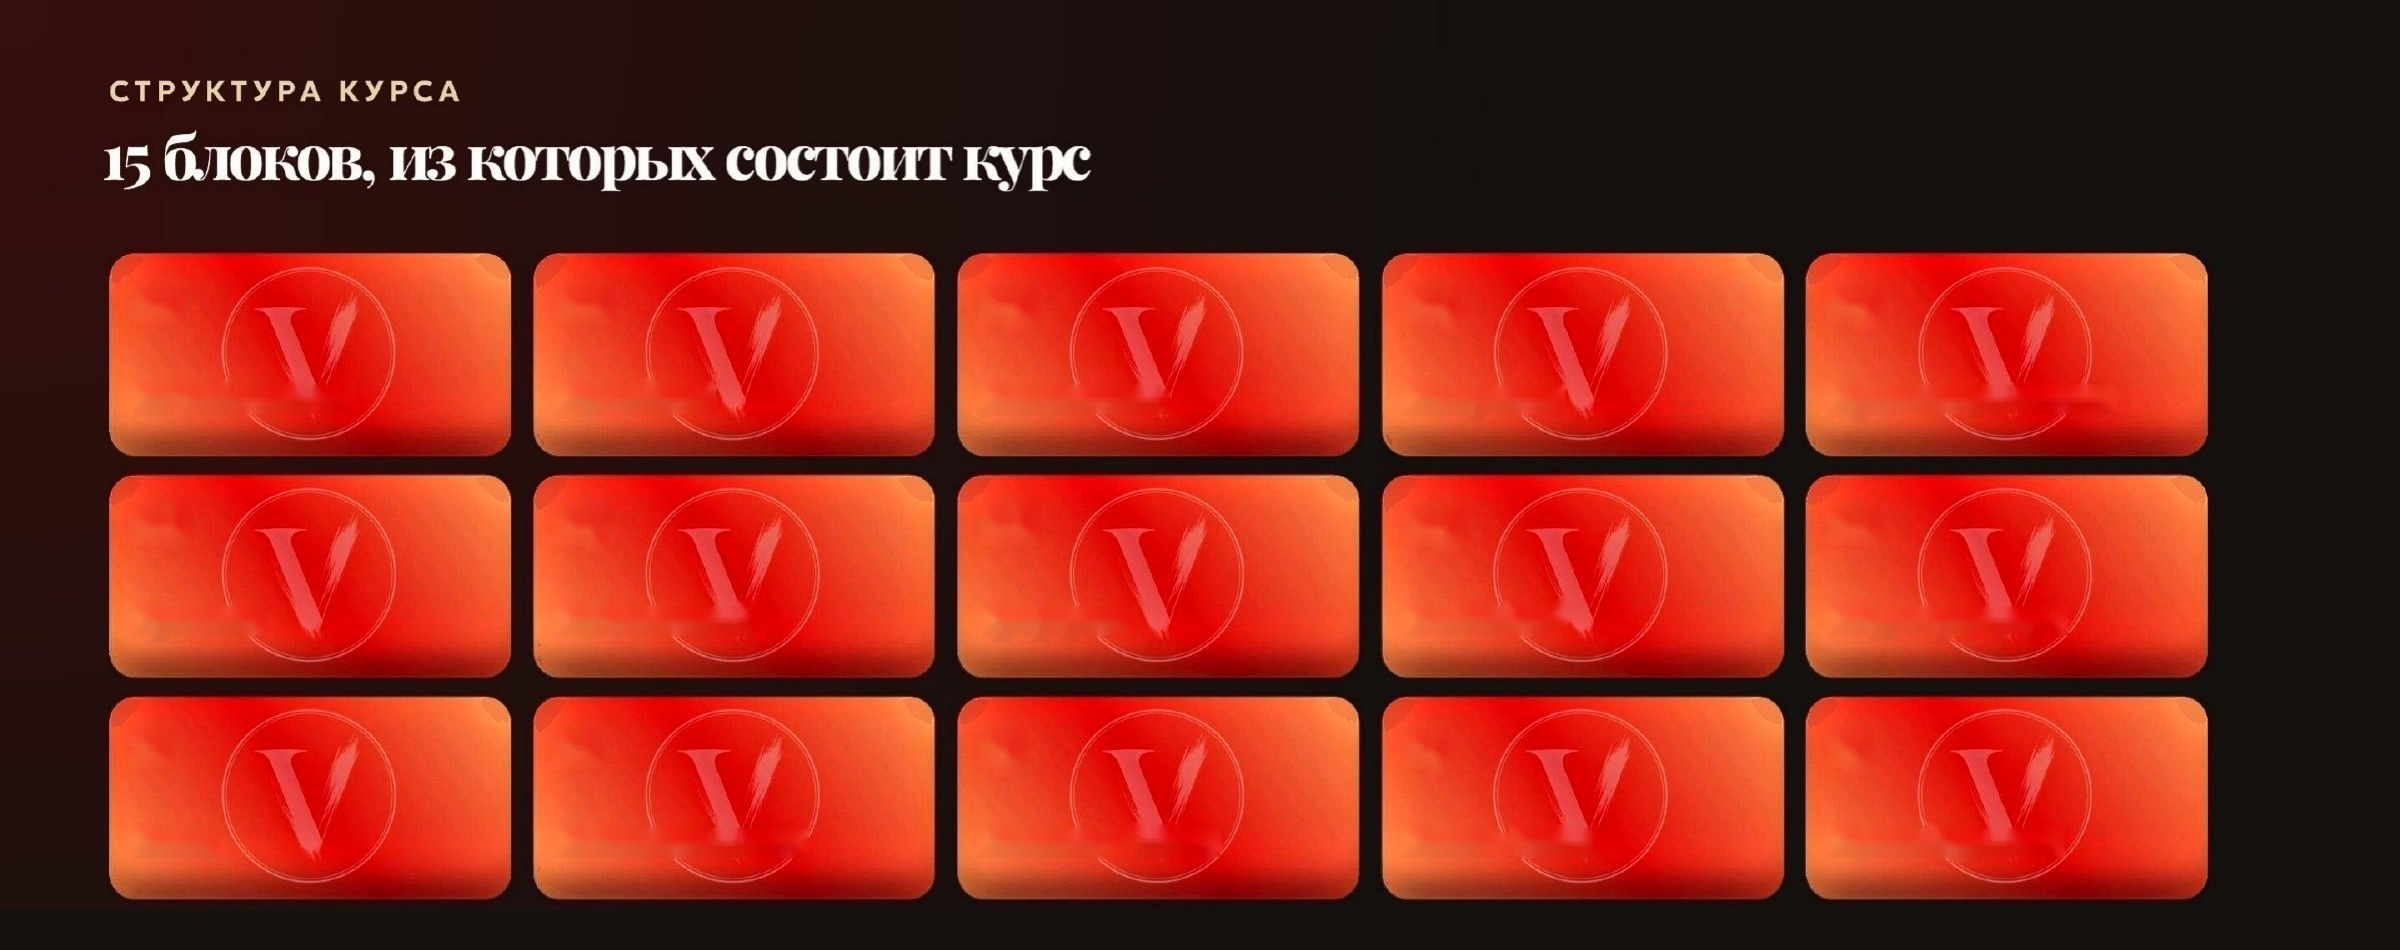
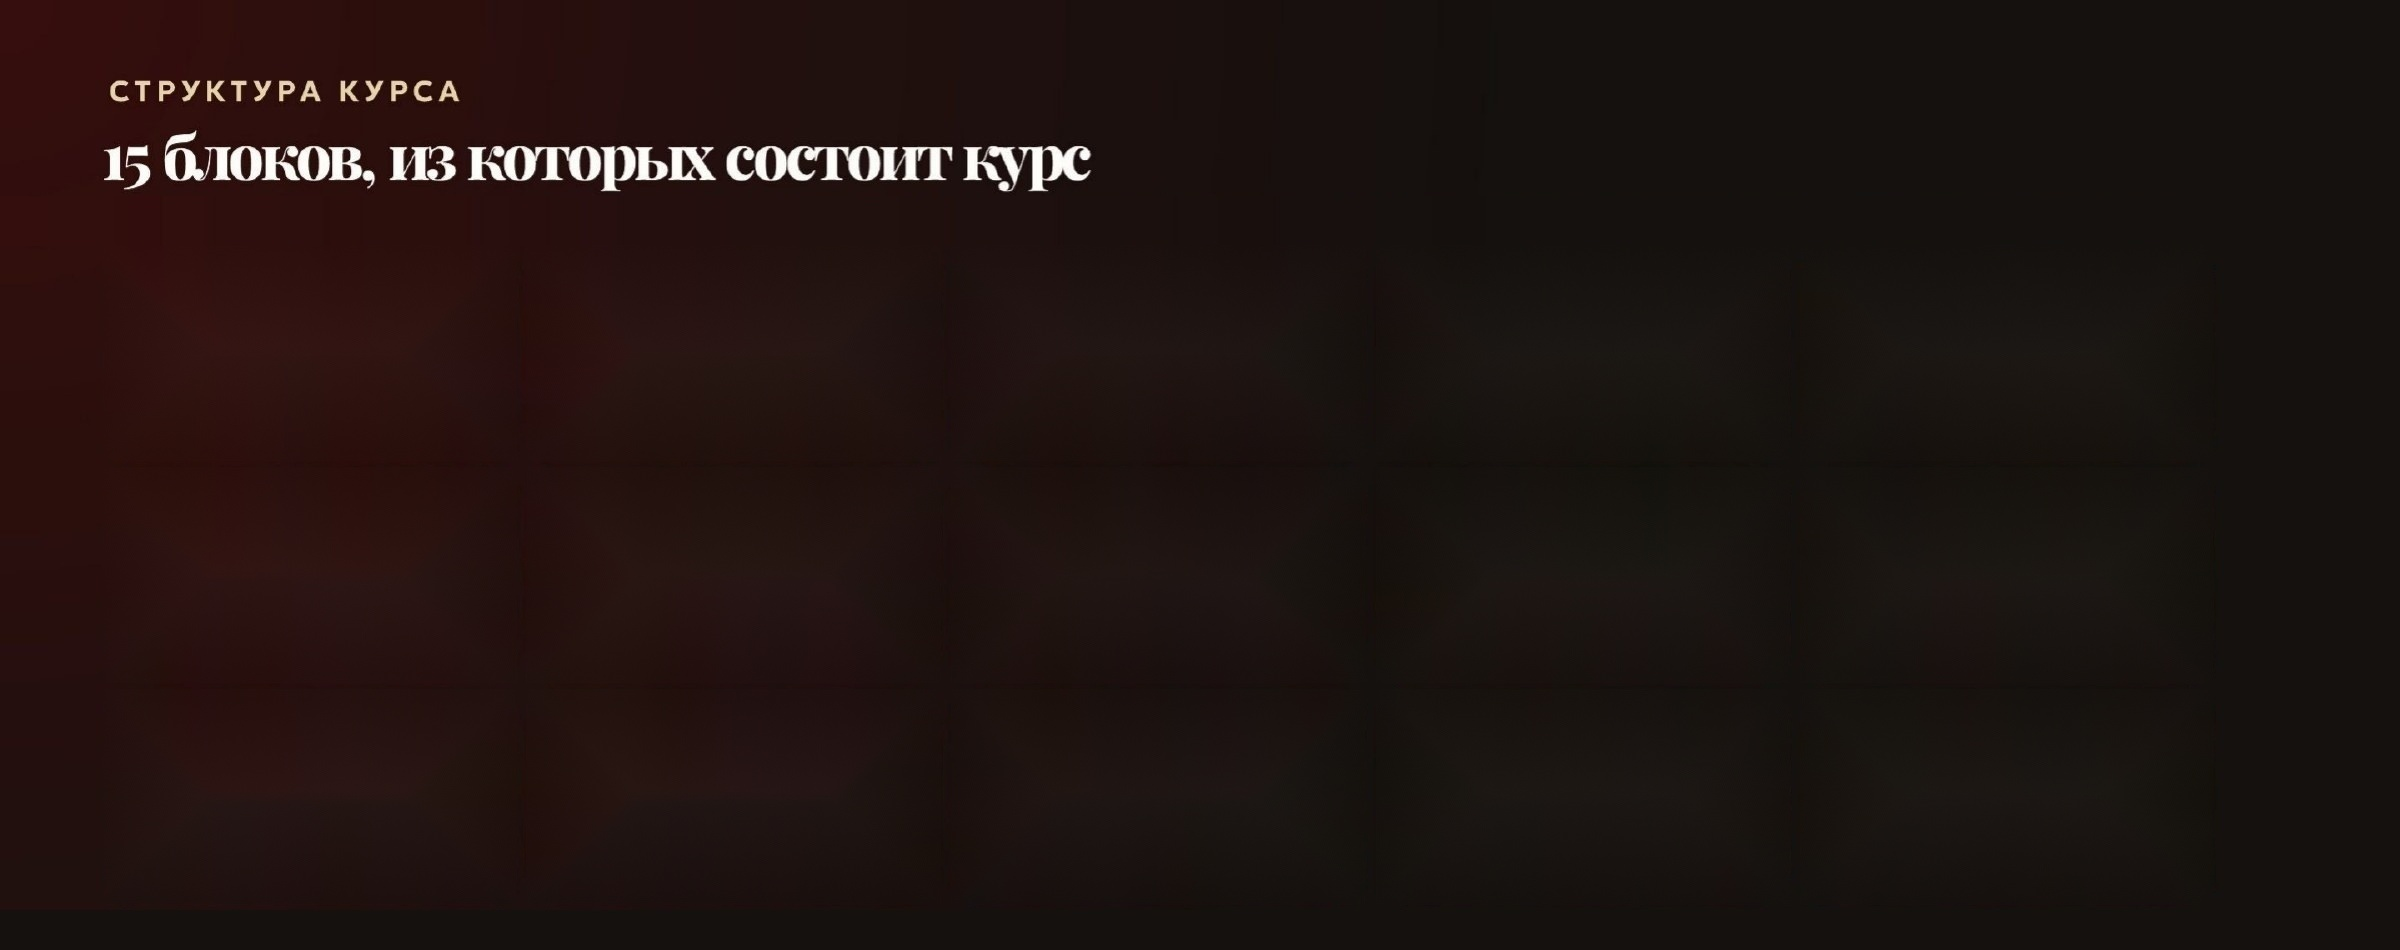
Rebuild slide 2's 15 cards as real CSS elements, not baked pixels
Per the user's explicit choice: instead of a shine overlay glued on
top of a baked image, the cards are now genuine styled divs
(gradient, box-shadow, ring + "V" watermark reconstructed in CSS)
with the shine sweep as their own ::after -- truly part of each
block's own code, matching how the CTA button's shine works. Erased
the old flat card pixels from slide-02.jpg via inpainting so the
background gradient behind the new CSS cards stays seamless.

Claude-Session: https://claude.ai/code/session_01CnfRud7UFKfhrBcKWTmy69

diff --git a/docs/index.html b/docs/index.html
@@ -92,6 +92,32 @@
     100%{ transform:skewX(-18deg) translateX(172%); }
   }
 
+  /* ---- Slide 2's 15 cards, rebuilt as real CSS elements --------------
+     These were flat pixels in slide-02.jpg (erased, see that file), so
+     the shine could only ever be a layer glued on top. Rebuilding the
+     card itself as a styled div lets the sweep be the card's own
+     ::after -- genuinely part of the block, not an overlay on it. */
+  .sq-icon{
+    position:absolute; border-radius:14%/26%; overflow:hidden;
+    background:linear-gradient(105deg,#f98658 0%,#f25832 24%,#e62115 52%,#f25832 78%,#f98658 100%);
+    box-shadow:0 10px 20px -10px rgba(221,0,3,0.6);
+  }
+  .sq-icon::before{
+    content:"V"; position:absolute; inset:0; display:flex; align-items:center; justify-content:center;
+    font-family:'Playfair Display',serif; font-weight:700; font-size:5.5cqw; line-height:1;
+    color:rgba(255,255,255,0.22);
+  }
+  .sq-icon .ring{
+    position:absolute; left:50%; top:50%; width:34%; height:65%;
+    transform:translate(-50%,-50%); border:2px solid rgba(255,255,255,0.16); border-radius:50%;
+  }
+  .sq-icon::after{
+    content:"";
+    position:absolute; top:-40%; left:-90%; width:110%; height:180%;
+    background:linear-gradient(100deg, transparent 0%, rgba(255,255,255,0.55) 50%, transparent 100%);
+    animation:icon-shine-sweep 3.6s ease-in-out infinite;
+  }
+
   /* ---- Enlarged text on slide 23 ----------------------------------
      The "Входит в обучение" list and the final heading/paragraph/
      byline were erased from slide-23.jpg (see that file) and are
@@ -210,22 +236,22 @@
     <div class="ov ov-badge on-dark"><span class="num">1</span><span class="den">/23</span></div>
   </div>
   <div class="slide-wrap">
-    <img class="slide-img" src="assets/slides/slide-02.jpg?v=9" alt="Слайд 2 — структура курса">
-    <div class="ov icon-shine" style="left:4.458%;top:26.42%;width:16.833%;height:21.68%;"></div>
-    <div class="ov icon-shine" style="left:22.125%;top:26.42%;width:16.833%;height:21.68%;"></div>
-    <div class="ov icon-shine" style="left:39.833%;top:26.42%;width:16.833%;height:21.68%;"></div>
-    <div class="ov icon-shine" style="left:57.542%;top:26.42%;width:16.833%;height:21.68%;"></div>
-    <div class="ov icon-shine" style="left:75.208%;top:26.42%;width:16.833%;height:21.68%;"></div>
-    <div class="ov icon-shine" style="left:4.458%;top:49.68%;width:16.833%;height:21.68%;"></div>
-    <div class="ov icon-shine" style="left:22.125%;top:49.68%;width:16.833%;height:21.68%;"></div>
-    <div class="ov icon-shine" style="left:39.833%;top:49.68%;width:16.833%;height:21.68%;"></div>
-    <div class="ov icon-shine" style="left:57.542%;top:49.68%;width:16.833%;height:21.68%;"></div>
-    <div class="ov icon-shine" style="left:75.208%;top:49.68%;width:16.833%;height:21.68%;"></div>
-    <div class="ov icon-shine" style="left:4.458%;top:73.05%;width:16.833%;height:21.68%;"></div>
-    <div class="ov icon-shine" style="left:22.125%;top:73.05%;width:16.833%;height:21.68%;"></div>
-    <div class="ov icon-shine" style="left:39.833%;top:73.05%;width:16.833%;height:21.68%;"></div>
-    <div class="ov icon-shine" style="left:57.542%;top:73.05%;width:16.833%;height:21.68%;"></div>
-    <div class="ov icon-shine" style="left:75.208%;top:73.05%;width:16.833%;height:21.68%;"></div>
+    <img class="slide-img" src="assets/slides/slide-02.jpg?v=10" alt="Слайд 2 — структура курса">
+    <div class="ov sq-icon" style="left:4.458%;top:26.42%;width:16.833%;height:21.68%;"><span class="ring"></span></div>
+    <div class="ov sq-icon" style="left:22.125%;top:26.42%;width:16.833%;height:21.68%;"><span class="ring"></span></div>
+    <div class="ov sq-icon" style="left:39.833%;top:26.42%;width:16.833%;height:21.68%;"><span class="ring"></span></div>
+    <div class="ov sq-icon" style="left:57.542%;top:26.42%;width:16.833%;height:21.68%;"><span class="ring"></span></div>
+    <div class="ov sq-icon" style="left:75.208%;top:26.42%;width:16.833%;height:21.68%;"><span class="ring"></span></div>
+    <div class="ov sq-icon" style="left:4.458%;top:49.68%;width:16.833%;height:21.68%;"><span class="ring"></span></div>
+    <div class="ov sq-icon" style="left:22.125%;top:49.68%;width:16.833%;height:21.68%;"><span class="ring"></span></div>
+    <div class="ov sq-icon" style="left:39.833%;top:49.68%;width:16.833%;height:21.68%;"><span class="ring"></span></div>
+    <div class="ov sq-icon" style="left:57.542%;top:49.68%;width:16.833%;height:21.68%;"><span class="ring"></span></div>
+    <div class="ov sq-icon" style="left:75.208%;top:49.68%;width:16.833%;height:21.68%;"><span class="ring"></span></div>
+    <div class="ov sq-icon" style="left:4.458%;top:73.05%;width:16.833%;height:21.68%;"><span class="ring"></span></div>
+    <div class="ov sq-icon" style="left:22.125%;top:73.05%;width:16.833%;height:21.68%;"><span class="ring"></span></div>
+    <div class="ov sq-icon" style="left:39.833%;top:73.05%;width:16.833%;height:21.68%;"><span class="ring"></span></div>
+    <div class="ov sq-icon" style="left:57.542%;top:73.05%;width:16.833%;height:21.68%;"><span class="ring"></span></div>
+    <div class="ov sq-icon" style="left:75.208%;top:73.05%;width:16.833%;height:21.68%;"><span class="ring"></span></div>
     <div class="ov ov-card-num" style="left:4.958%;top:28.947%;">01</div>
     <div class="ov ov-card-label" style="left:4.958%;top:39.263%;width:15.875%;">VIP tattoo school</div>
     <div class="ov ov-card-num" style="left:22.625%;top:28.947%;">02</div>
